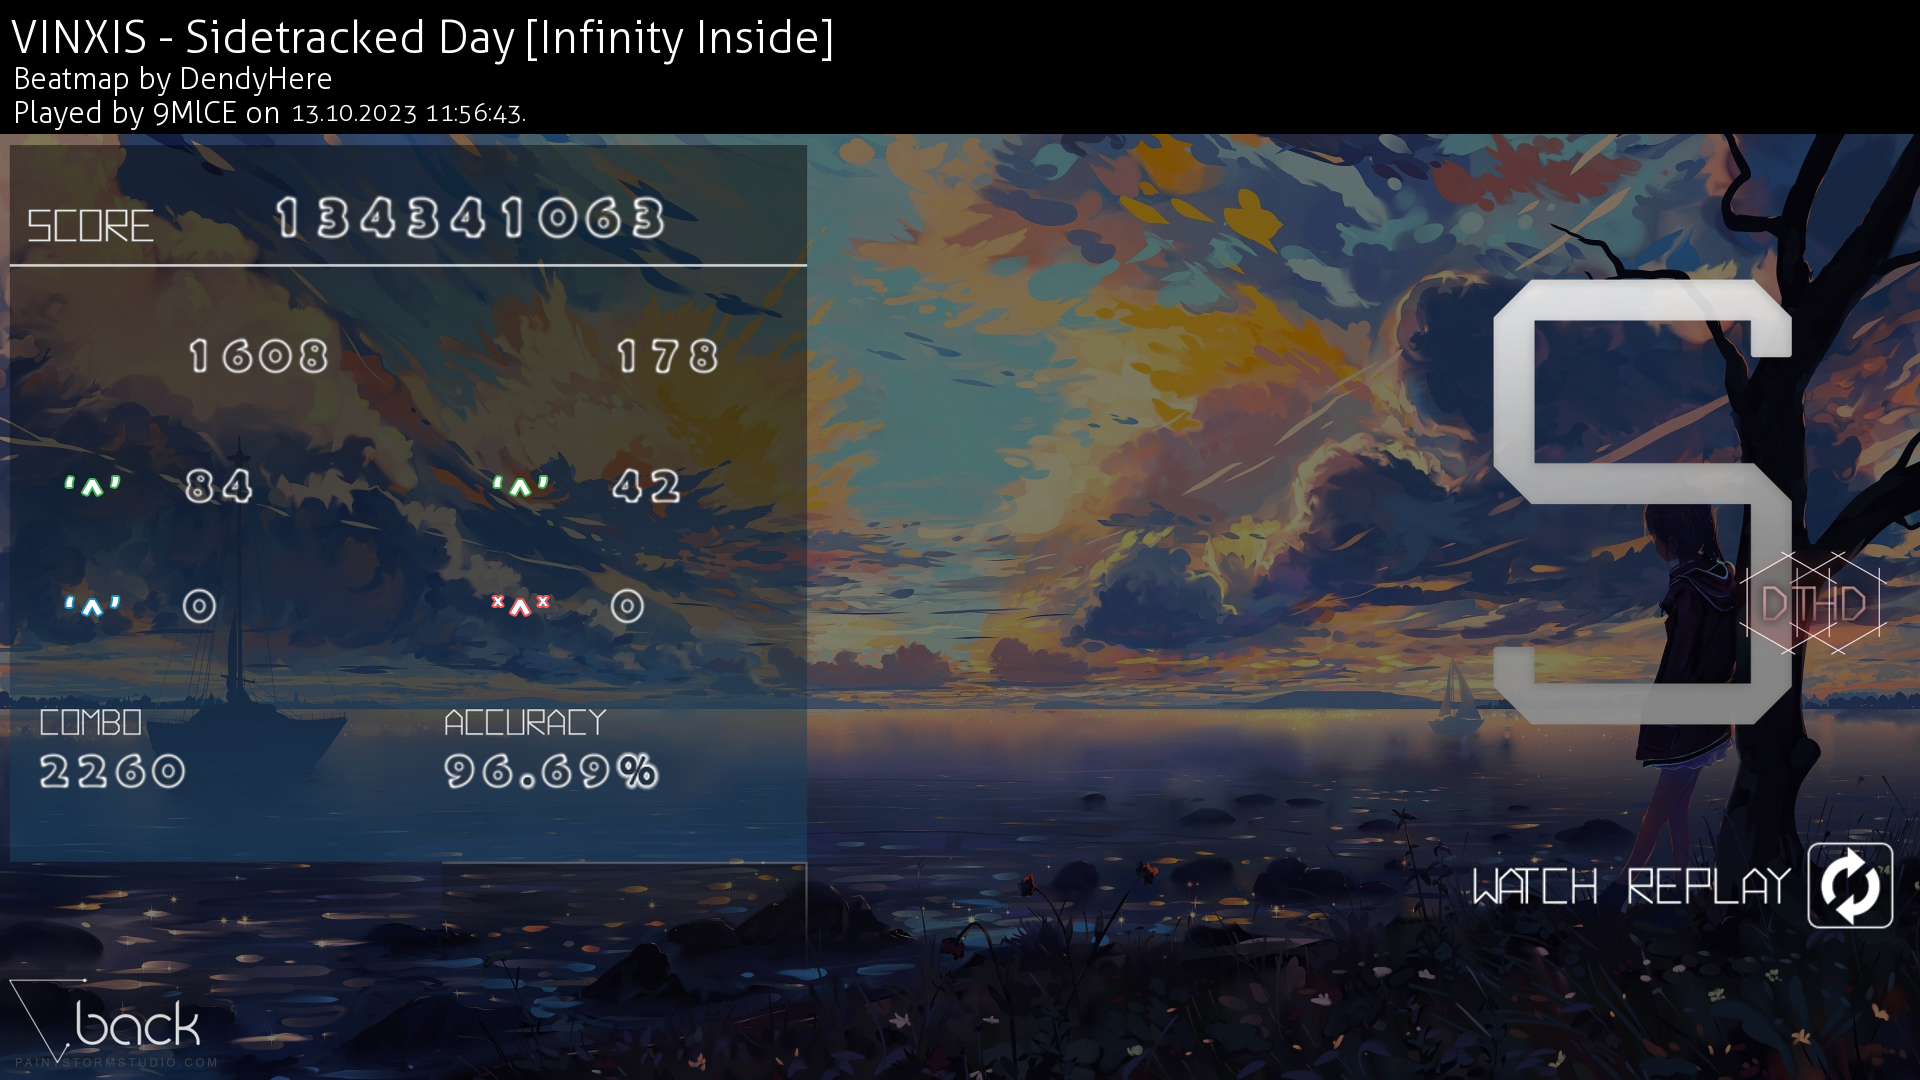
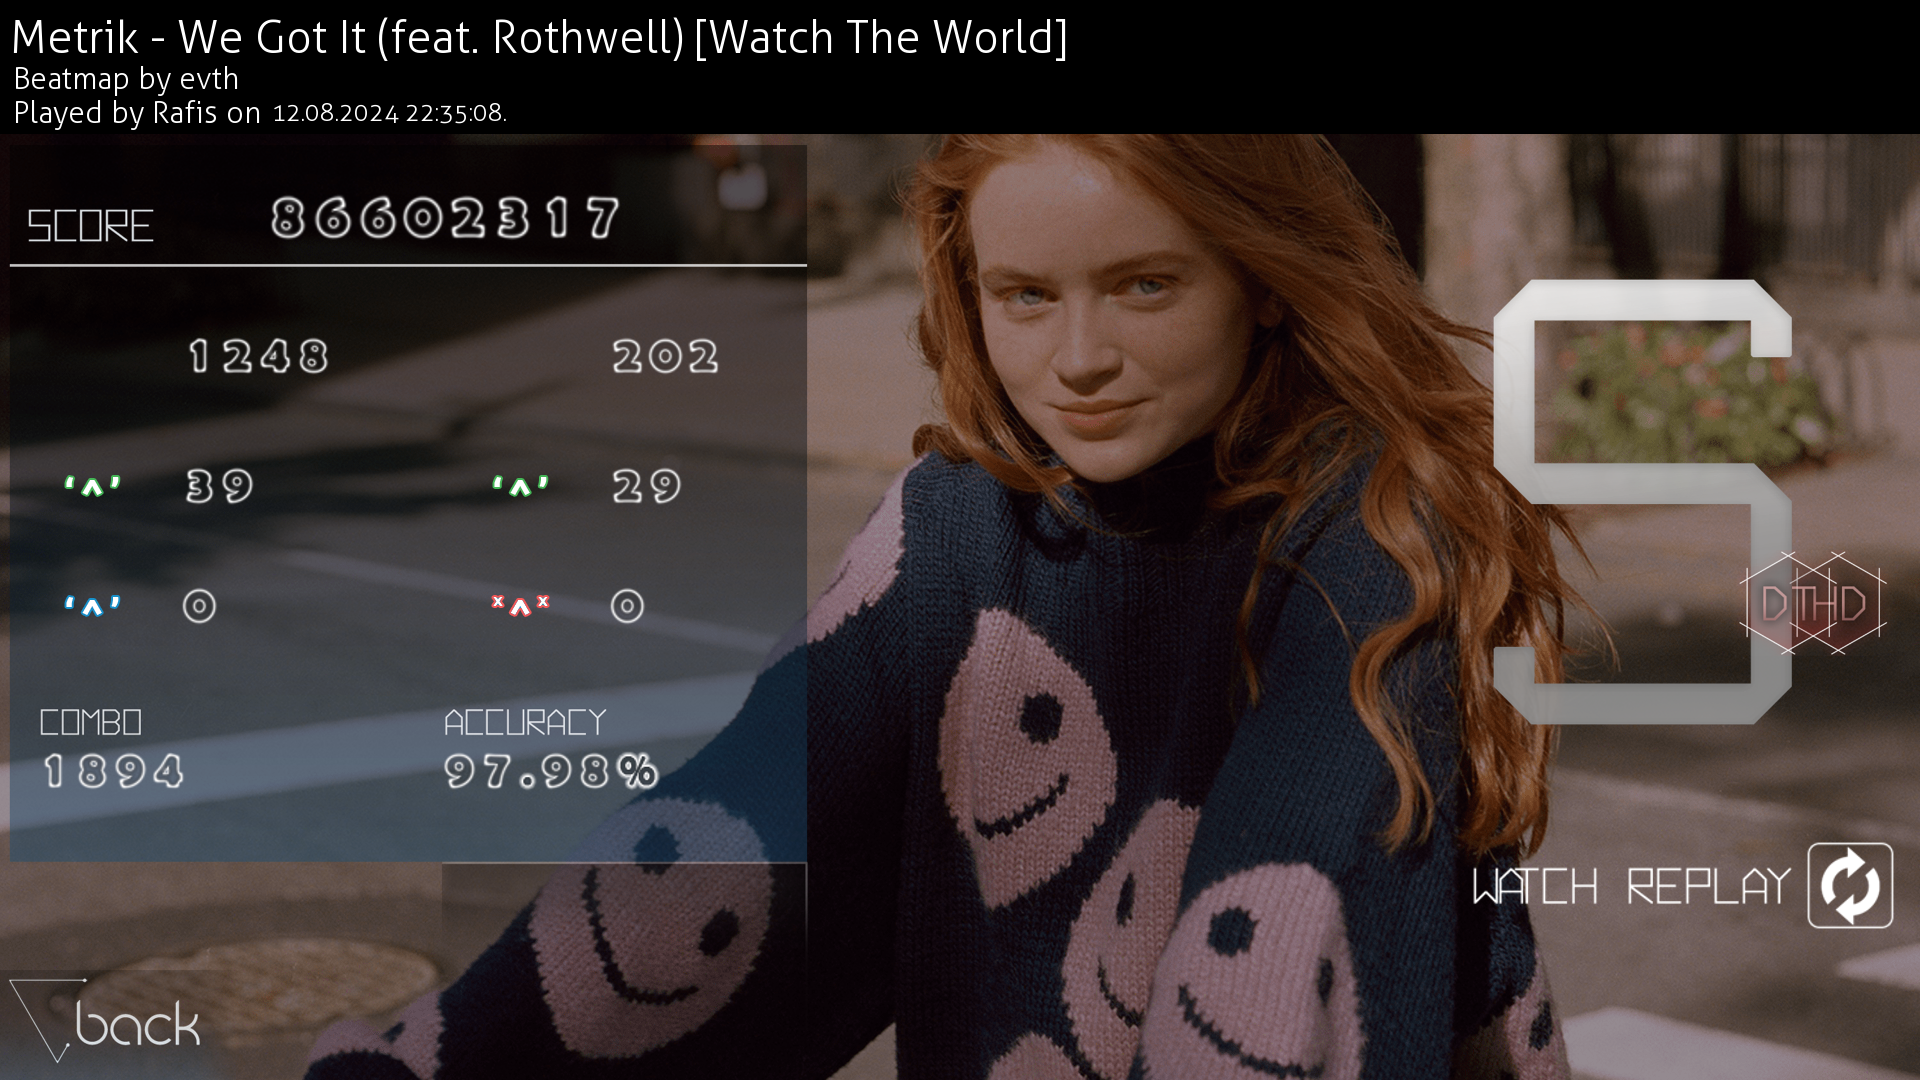
added snackbar and debugged screenshot generator convert rgba

diff --git a/flaskr/templates/base.html b/flaskr/templates/base.html
@@ -4,14 +4,13 @@
     <meta charset="UTF-8">
     <meta name="viewport" content="width=device-width, initial-scale=1.0">
     <meta http-equiv="X-UA-Compatible" content="ie=edge">
-    <title>HTML 5 Boilerplate</title>
+    <title>osu!scorepost</title>
     <link rel= "stylesheet" type= "text/css" href= "{{ url_for('static',filename='style.css') }}">
     <link rel="shortcut icon" type="image/x-icon" href="{{ url_for('static',filename='osu_scorepost_generator_logo.ico') }}" />
     <script src="https://kit.fontawesome.com/a5b2cefb49.js" crossorigin="anonymous" async></script>
-    {% block copy_contacts %}{% endblock %}
     <script async>
-        function copyToClipboard() {
-            scoreTitleText = document.getElementById('generated_title').innerText;
+        function copyToClipboard(elementId) {
+            scoreTitleText = document.getElementById(elementId).innerText;
             navigator.clipboard.writeText(scoreTitleText);
 
             notif = document.getElementById('copy_notification')
@@ -61,5 +60,6 @@
     </div>
     <!-- generator starts here -->
     {% block generator %}{% endblock %}
+    <div id="copy_notification" class="">Copied to clipboard</div>
   </body>
 </html>

diff --git a/flaskr/templates/contact.html b/flaskr/templates/contact.html
@@ -1,19 +1,10 @@
 {% extends "base.html" %}
-{% block copy_contacts %}
-<script async>
-    function copySocial(elementId){
-        socialName = document.getElementById(elementId).innerText
-        navigator.clipboard.writeText(socialName);
-    }
-
-</script>
-{% endblock %}
 {% block generator %}
 <div class="contacts_container">
     <h1 class="contact_title">Contacts</h1>
     <p class="contact_prompt">If you notice any issues, bugs, or have any questions, please feel free to contact me in any way that works for you.</p>
     <div class="socials_container">
-        <a class="discord social_icon" onclick="copySocial('discordName')">
+        <a class="discord social_icon" onclick="copyToClipboard('discordName')">
             <i class="fa-brands fa-discord" style="color: rgb(114,137,218)"></i>
             <p>Discord</p>
             <span class="tooltiptext" id="discordName">smaako</span>

diff --git a/flaskr/templates/home.html b/flaskr/templates/home.html
@@ -16,7 +16,7 @@
 
   <p class="generated_title" id="generated_title">
     {{ score_title }}
-    <button class="copy_button" onclick="copyToClipboard()">
+    <button class="copy_button" onclick="copyToClipboard('generated_title')">
       <span style="color: white;" class="copy_button_style">
         <i class="fa-solid fa-clipboard"></i>
       </span>
@@ -26,6 +26,5 @@
     <img class="score_image" src="{{ image_src }}">
   </a>
   <p class = "results" id="loading">{{ results }}</p>
-  <div id="copy_notification" class="">Copied to clipboard</div>
 </div>
 {% endblock %}

diff --git a/flaskr/static/style.css b/flaskr/static/style.css
@@ -390,7 +390,7 @@ body {
     .results{
         font-size: 11em;
     }
-    .notif{
+    #copy_notification{
         font-size: 13em;
     }
 
@@ -436,7 +436,7 @@ body {
     .results{
         font-size: 14em;
     }
-    .notif{
+    #copy_notification{
         font-size: 15em;
     }
 }

diff --git a/src/generate_screenshot.py b/src/generate_screenshot.py
@@ -180,24 +180,24 @@ def generate_ss(url):
         random_background = random.choice(os.listdir(path_to_default_background_dir))
         path_to_random_background = os.path.join(path_to_default_background_dir, random_background)
         im = Image.open(path_to_random_background)
+    im = im.convert("RGB")
     color_enhancer = ImageEnhance.Color(im)
     brightness_enhance = ImageEnhance.Brightness(im)
-
     im = color_enhancer.enhance(0.50)
-    im = brightness_enhance.enhance(0.5)
+    im = brightness_enhance.enhance(0.6)
     im = set_up_image_dimensions(im)
     set_up_skeleton(im)
     generate_top_left_text(im, score)
     generate_rank(im, score)
     generate_mods_items(im, score)
     generate_statistics(im, score)
-
     im.save(os.path.join(dir_generator, "..", "flaskr", "static", "scorepost_generator_images", "score.png"))
     print("Success!")
 
 #generate_ss("https://osu.ppy.sh/scores/328536")
 #generate_ss("https://osu.ppy.sh/scores/329583391")
-generate_ss("https://osu.ppy.sh/scores/3250271015")
+#generate_ss("https://osu.ppy.sh/scores/3326116414")
 #generate_ss("https://osu.ppy.sh/scores/2344387027")
 #generate_ss("https://osu.ppy.sh/scores/2903729026")
 #generate_ss("https://osu.ppy.sh/scores/2327036403")
+generate_ss("https://osu.ppy.sh/scores/3326116414")

diff --git a/src/create_score_title.py b/src/create_score_title.py
@@ -10,6 +10,7 @@ import requests
 # Creates title for osu
 def create_title(url):
     score = get_score(url)
+    print("successfully got score")
     # Score object from Ossapi
     username = score._user.username
     artist = score.beatmapset.artist
